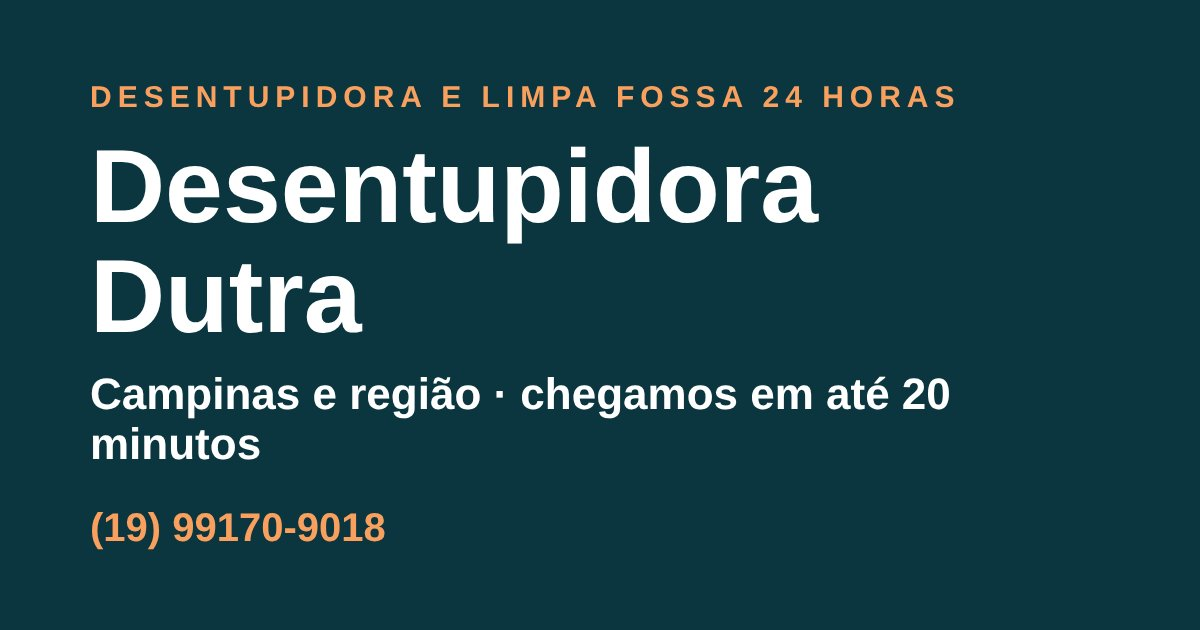
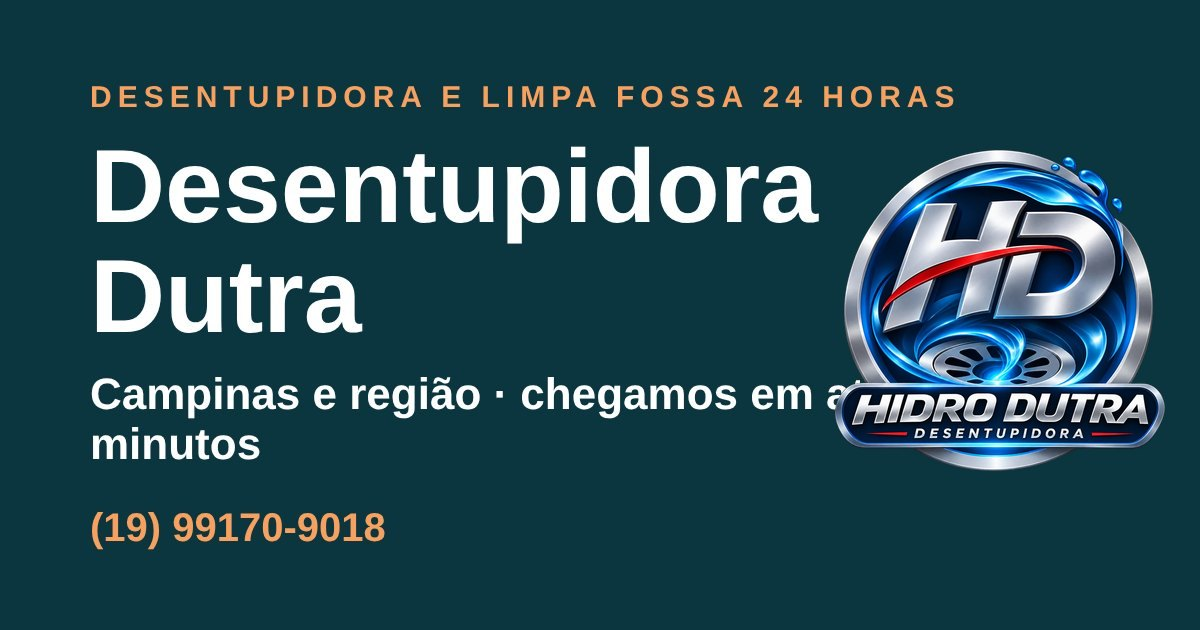
Logotipo oficial, cabeçalho escuro e topo da home centralizado sobre a foto
Claude-Session: https://claude.ai/code/session_016urscxa7Dk6YD5cftTG8rF

Changed region(s): [[0.6783, 0.2413, 0.9867, 0.754]]

diff --git a/src/styles/global.css b/src/styles/global.css
@@ -133,20 +133,17 @@ body:has(.nav-mobile[open]) .float-cta { display: none; }
 .hero::after { content: ''; position: absolute; right: -140px; top: -140px; width: 420px; height: 420px; border-radius: 50%; background: var(--accent-soft); z-index: 0; }
 .hero > .container { position: relative; z-index: 1; }
 .hero-bg { position: absolute; inset: 0; width: 100%; height: 100%; object-fit: cover; object-position: 60% 50%; z-index: 0; }
-.hero.has-bg::after {
+.hero-home.has-bg::after {
   inset: 0; right: 0; top: 0; width: auto; height: auto; border-radius: 0;
-  background: linear-gradient(90deg, rgba(246, 242, 234, .97) 0%, rgba(246, 242, 234, .93) 46%, rgba(246, 242, 234, .55) 72%, rgba(11, 54, 64, .45) 100%);
+  background: linear-gradient(180deg, rgba(6, 34, 40, .84) 0%, rgba(6, 34, 40, .66) 50%, rgba(6, 34, 40, .86) 100%);
 }
-@media (max-width: 900px) {
-  .hero-bg { object-position: 78% 50%; }
-  .hero-home.has-bg::after { background: linear-gradient(180deg, rgba(6, 34, 40, .8) 0%, rgba(6, 34, 40, .62) 50%, rgba(6, 34, 40, .82) 100%); }
-  .hero-home.has-bg h1 { color: #fff; }
-  .hero-home.has-bg h1 em { color: #ff9d57; }
-  .hero-home.has-bg .hero-lead { color: #e6f1f3; }
-  .hero-home.has-bg .hero-cities, .hero-home.has-bg .hero-cities a { color: #fff; }
-  .hero-home.has-bg .btn-call { border-color: #fff; }
-  .hero-home.has-bg .hero-panel { background: rgba(6, 34, 40, .88); }
-}
+.hero-home.has-bg h1 { color: #fff; }
+.hero-home.has-bg h1 em { color: #ff9d57; }
+.hero-home.has-bg .hero-lead { color: #e6f1f3; }
+.hero-home.has-bg .hero-cities, .hero-home.has-bg .hero-cities a { color: #fff; }
+.hero-home.has-bg .btn-call { border-color: #fff; }
+@media (max-width: 900px) { .hero-bg { object-position: 78% 50%; } }
+
 .hero h1 em { font-style: normal; color: var(--accent-dark); }
 .hero-lead { font-size: 1.2rem; color: var(--ink-soft); max-width: 640px; }
 .hero .cta-buttons { margin-top: 26px; }
@@ -365,3 +362,37 @@ body:has(.nav-mobile[open]) .float-cta { display: none; }
 @media (prefers-reduced-motion: reduce) {
   *, *::before, *::after { animation-duration: 0.01ms !important; animation-iteration-count: 1 !important; transition: none !important; scroll-behavior: auto !important; }
 }
+
+/* logotipo */
+.logo-img { display: block; }
+.brand { display: block; padding: 2px 0; line-height: 0; }
+.footer-brand .logo-img { margin-bottom: 14px; }
+@media (max-width: 560px) { .site-header .logo-img { height: 54px !important; } }
+
+/* topo da home: tudo centralizado sobre a foto, com o painel de plantão em faixa logo abaixo */
+.hero-home { padding: clamp(44px, 7vw, 92px) 0 clamp(48px, 7vw, 88px); }
+.hero-home .hero-split { display: flex; flex-direction: column; align-items: center; gap: 36px; text-align: center; }
+.hero-home .hero-split > div { max-width: 860px; display: flex; flex-direction: column; align-items: center; }
+.hero-home .hero-lead { margin-inline: auto; }
+.hero-home .cta-buttons { justify-content: center; }
+.hero-home .hero-cities { max-width: 760px; }
+.hero-home .hero-panel {
+  width: min(980px, 100%); text-align: left; display: grid; grid-template-columns: 1fr auto; gap: 8px 32px; align-items: center;
+  background: rgba(6, 34, 40, .82); backdrop-filter: blur(6px); border: 1px solid rgba(255, 255, 255, .14); border-bottom: 6px solid var(--accent); padding: 24px 28px;
+}
+.hero-home .hero-panel-title { grid-column: 1 / -1; margin-bottom: 6px; }
+.hero-home .hero-panel ul { margin: 0; grid-template-columns: 1fr 1fr; gap: 10px 24px; }
+@media (max-width: 760px) {
+  .hero-home .hero-panel { grid-template-columns: 1fr; padding: 22px; }
+  .hero-home .hero-panel ul { grid-template-columns: 1fr; margin-bottom: 14px; }
+  .hero-home .hero-split > div { width: 100%; }
+}
+
+/* cabeçalho escuro, na mesma cor do topo */
+.site-header { background: rgba(6, 34, 40, .97); border-bottom: 1px solid rgba(255, 255, 255, .08); }
+.nav-item > a { color: #e3f0f2; }
+.nav-item > a:hover { background: rgba(255, 255, 255, .08); color: #fff; }
+.nav-mobile > summary { background: rgba(255, 255, 255, .12); }
+.site-header .btn-call { border-color: #fff; }
+.topbar { background: var(--accent-dark); color: #fff; }
+.topbar svg { color: #fff; }

diff --git a/src/data/schema.ts b/src/data/schema.ts
@@ -11,7 +11,7 @@ export function localBusinessSchema() {
     '@id': businessId,
     name: site.name,
     url: site.url,
-    logo: `${site.url}/favicon.svg`,
+    logo: `${site.url}/logo.png`,
     image: `${site.url}/og.jpg`,
     telephone: `+${site.phoneDigits}`,
     description: site.description,
